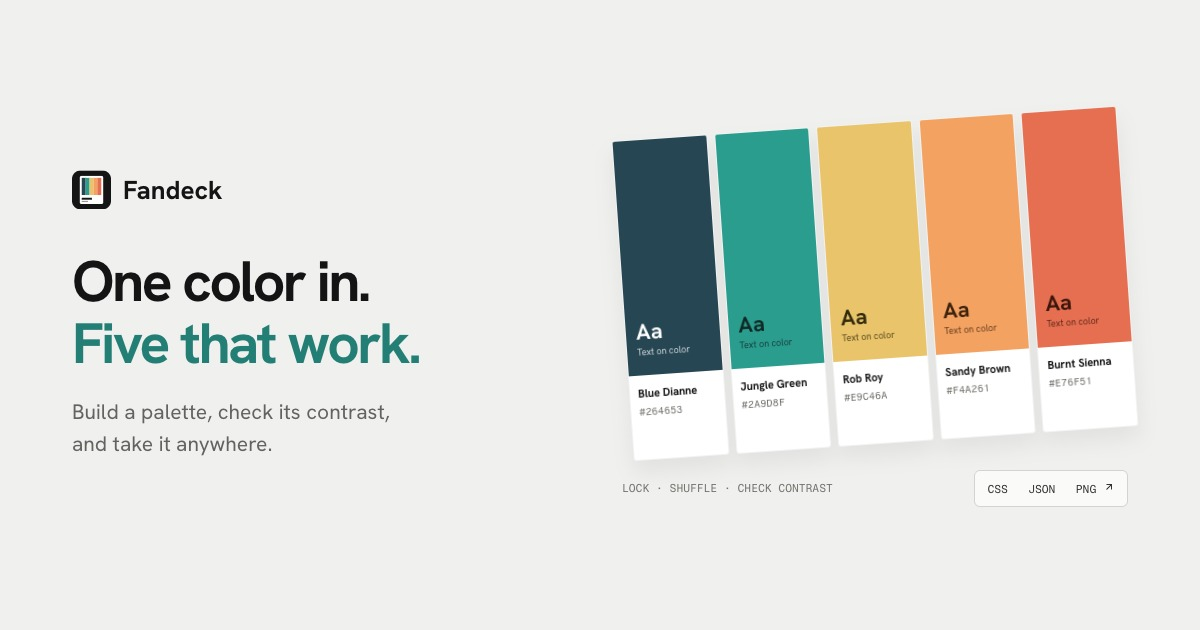
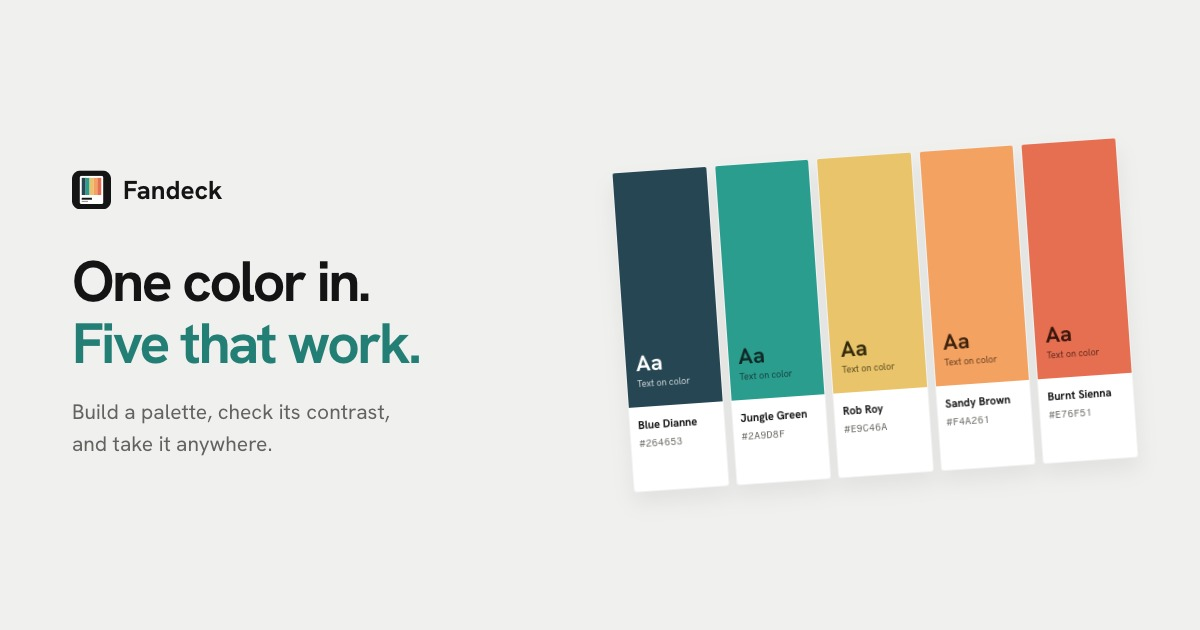
fix: update Open Graph and Twitter image version to v4

Changed region(s): [[0.4933, 0.1508, 0.9558, 0.7841], [0.8633, 0.754, 0.925, 0.7841]]

diff --git a/docs/og.html b/docs/og.html
@@ -7,7 +7,7 @@
   <style>
 @font-face{font-family:"Hanken";src:url("../fonts/hanken-grotesk-latin.woff2") format("woff2");font-style:normal;font-weight:100 900;font-display:block}@font-face{font-family:"Fragment";src:url("../fonts/fragment-mono-latin.woff2") format("woff2");font-style:normal;font-weight:400;font-display:block}
 *{box-sizing:border-box}html,body{margin:0;width:1200px;height:630px;overflow:hidden}body{font-synthesis:none;-webkit-font-smoothing:antialiased}main{position:relative;width:1200px;height:630px}.copy{position:absolute;left:72px;top:50%;transform:translateY(-50%);width:485px}.brand{display:flex;align-items:center;gap:12px;font-size:26px;font-weight:700}.brand img{width:42px;height:42px;flex:none}h1{margin:42px 0 22px;font-size:54px;line-height:1.08;letter-spacing:-.045em;font-weight:700}p{margin:0;font-size:21px;line-height:1.5}.visual{position:absolute;left:620px;top:50%;transform:translateY(-50%);width:508px}.accent{color:var(--accent)}
-body{font-family:Hanken,sans-serif;background:#f0f0ef;color:#141414;--accent:#237f75}p{color:#62625e}h1{font-size:57px}.brand img{width:39px;height:39px}.visual{left:622px;width:506px}.palette{display:flex;gap:7px;transform:rotate(-4deg);filter:drop-shadow(0 12px 10px #00000010)}.chip{width:96px;height:321px;background:white;border-radius:3px;overflow:hidden;position:relative;border:1px solid #0000000d}.paint{height:235px;padding:177px 10px 0;color:var(--ink);background:var(--paint)}.sample{font-size:22px;font-weight:650}.paint small{font-size:9px;display:block;opacity:.8}.label{padding:11px 8px;font-size:11px;font-weight:700}.label small{font-family:Fragment,monospace;display:block;font-size:10px;font-weight:400;margin-top:6px;color:#6b6b65}.palette-foot{margin:26px 0 0;display:flex;justify-content:space-between;align-items:center;font-family:Fragment,monospace;font-size:11px;color:#73736e}.exports{border:1px solid #d3d3cf;border-radius:6px;background:#fafaf9;padding:10px 12px;color:#333}
+body{font-family:Hanken,sans-serif;background:#f0f0ef;color:#141414;--accent:#237f75}p{color:#62625e}h1{font-size:57px}.brand img{width:39px;height:39px}.visual{left:622px;width:506px}.palette{display:flex;gap:7px;transform:rotate(-4deg);filter:drop-shadow(0 12px 10px #00000010)}.chip{width:96px;height:321px;background:white;border-radius:3px;overflow:hidden;position:relative;border:1px solid #0000000d}.paint{height:235px;padding:177px 10px 0;color:var(--ink);background:var(--paint)}.sample{font-size:22px;font-weight:650}.paint small{font-size:9px;display:block;opacity:.8}.label{padding:11px 8px;font-size:11px;font-weight:700}.label small{font-family:Fragment,monospace;display:block;font-size:10px;font-weight:400;margin-top:6px;color:#6b6b65}
   </style>
 </head>
 <body>
@@ -17,7 +17,7 @@ body{font-family:Hanken,sans-serif;background:#f0f0ef;color:#141414;--accent:#23
       <h1>One color in.<br><span class="accent">Five that work.</span></h1>
       <p>Build a palette, check its contrast,<br>and take it anywhere.</p>
     </div>
-    <div class="visual"><div class="palette"><div class="chip" style="--paint:#264653;--ink:#fff"><div class="paint"><div class="sample">Aa</div><small>Text on color</small></div><div class="label">Blue Dianne<small>#264653</small></div></div><div class="chip" style="--paint:#2a9d8f;--ink:#102824"><div class="paint"><div class="sample">Aa</div><small>Text on color</small></div><div class="label">Jungle Green<small>#2A9D8F</small></div></div><div class="chip" style="--paint:#e9c46a;--ink:#32290c"><div class="paint"><div class="sample">Aa</div><small>Text on color</small></div><div class="label">Rob Roy<small>#E9C46A</small></div></div><div class="chip" style="--paint:#f4a261;--ink:#3d220d"><div class="paint"><div class="sample">Aa</div><small>Text on color</small></div><div class="label">Sandy Brown<small>#F4A261</small></div></div><div class="chip" style="--paint:#e76f51;--ink:#39150c"><div class="paint"><div class="sample">Aa</div><small>Text on color</small></div><div class="label">Burnt Sienna<small>#E76F51</small></div></div></div><div class="palette-foot"><span>LOCK · SHUFFLE · CHECK CONTRAST</span><span class="exports">CSS &nbsp; JSON &nbsp; PNG <svg width="12" height="12" viewBox="0 0 24 24" fill="none" stroke="currentColor" stroke-width="2" aria-hidden="true"><path d="M7 17 17 7M7 7h10v10"/></svg></span></div></div>
+    <div class="visual"><div class="palette"><div class="chip" style="--paint:#264653;--ink:#fff"><div class="paint"><div class="sample">Aa</div><small>Text on color</small></div><div class="label">Blue Dianne<small>#264653</small></div></div><div class="chip" style="--paint:#2a9d8f;--ink:#102824"><div class="paint"><div class="sample">Aa</div><small>Text on color</small></div><div class="label">Jungle Green<small>#2A9D8F</small></div></div><div class="chip" style="--paint:#e9c46a;--ink:#32290c"><div class="paint"><div class="sample">Aa</div><small>Text on color</small></div><div class="label">Rob Roy<small>#E9C46A</small></div></div><div class="chip" style="--paint:#f4a261;--ink:#3d220d"><div class="paint"><div class="sample">Aa</div><small>Text on color</small></div><div class="label">Sandy Brown<small>#F4A261</small></div></div><div class="chip" style="--paint:#e76f51;--ink:#39150c"><div class="paint"><div class="sample">Aa</div><small>Text on color</small></div><div class="label">Burnt Sienna<small>#E76F51</small></div></div></div></div>
   </main>
 </body>
 </html>

diff --git a/index.html b/index.html
@@ -12,7 +12,7 @@
     <meta property="og:title" content="Fandeck · Five colors from one you pick" />
     <meta property="og:description" content="Pick a color and a harmony, get five that work together. Lock, shuffle, check contrast, export." />
     <meta property="og:url" content="https://fandeck.ashwin.co.in/" />
-    <meta property="og:image" content="https://fandeck.ashwin.co.in/og.jpg?v=3" />
+    <meta property="og:image" content="https://fandeck.ashwin.co.in/og.jpg?v=4" />
     <meta property="og:image:type" content="image/jpeg" />
     <meta property="og:image:width" content="1200" />
     <meta property="og:image:height" content="630" />
@@ -20,7 +20,7 @@
     <meta name="twitter:card" content="summary_large_image" />
     <meta name="twitter:title" content="Fandeck · Five colors from one you pick" />
     <meta name="twitter:description" content="Pick a color and a harmony, get five that work together. Lock, shuffle, check contrast, export." />
-    <meta name="twitter:image" content="https://fandeck.ashwin.co.in/og.jpg?v=3" />
+    <meta name="twitter:image" content="https://fandeck.ashwin.co.in/og.jpg?v=4" />
     <link rel="icon" type="image/svg+xml" href="/icon.svg" />
     <link rel="apple-touch-icon" href="/apple-touch-icon.png" />
     <link rel="manifest" href="/site.webmanifest" />
